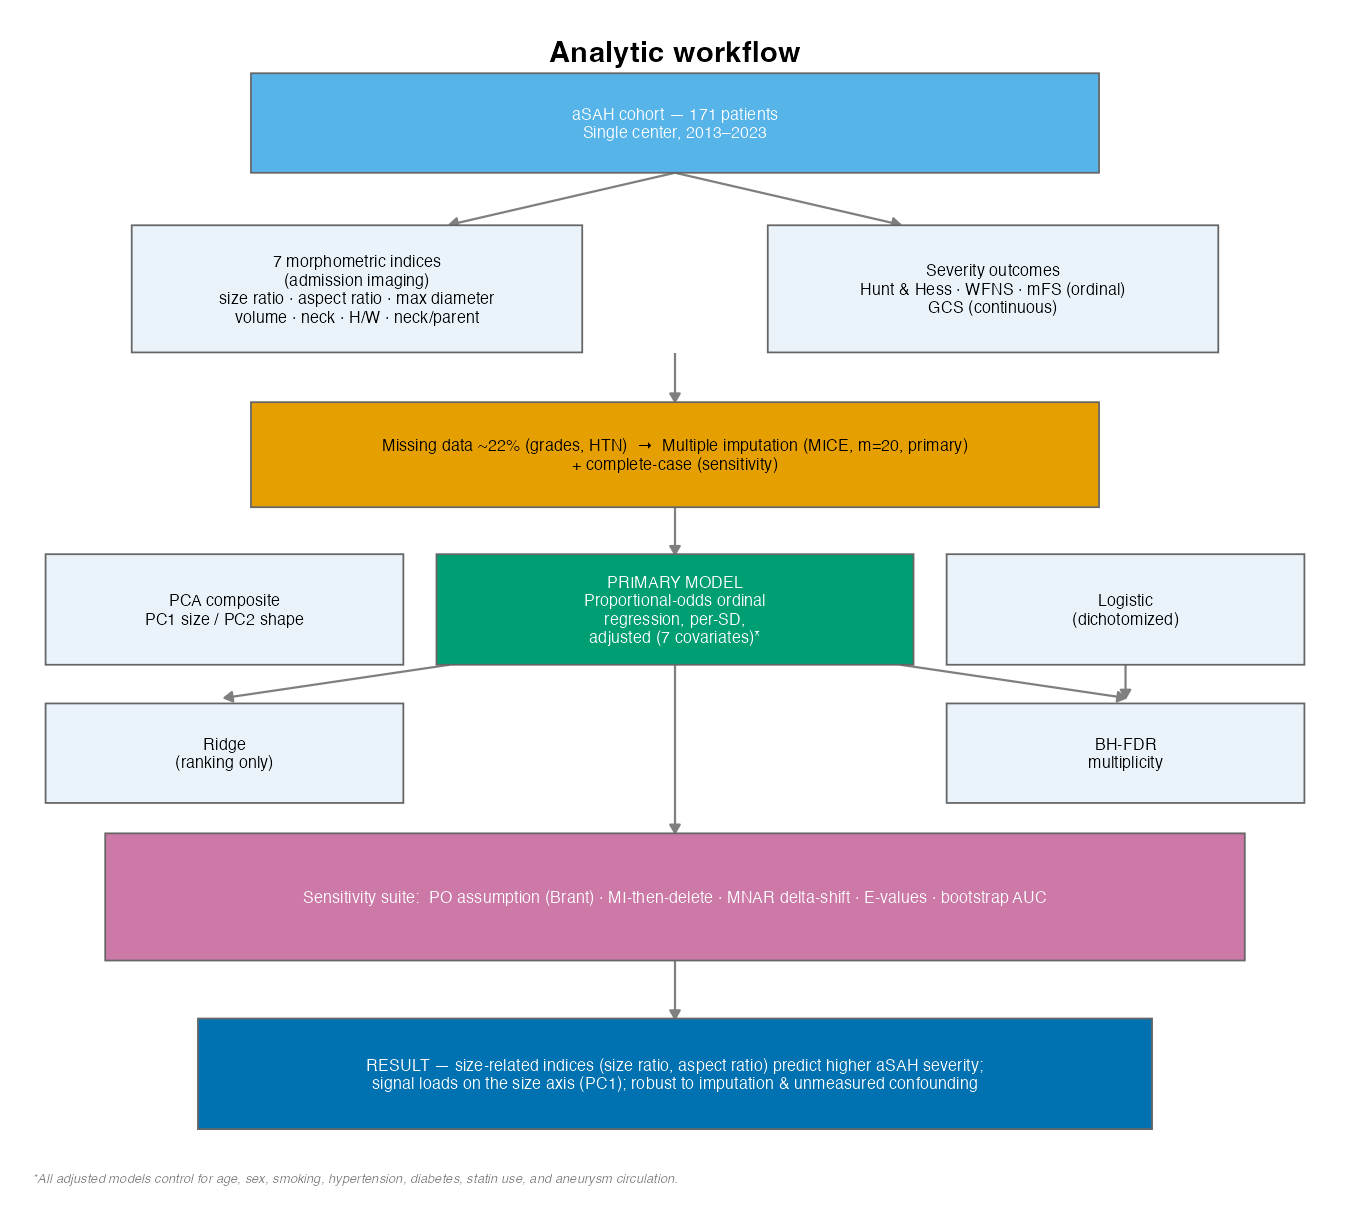
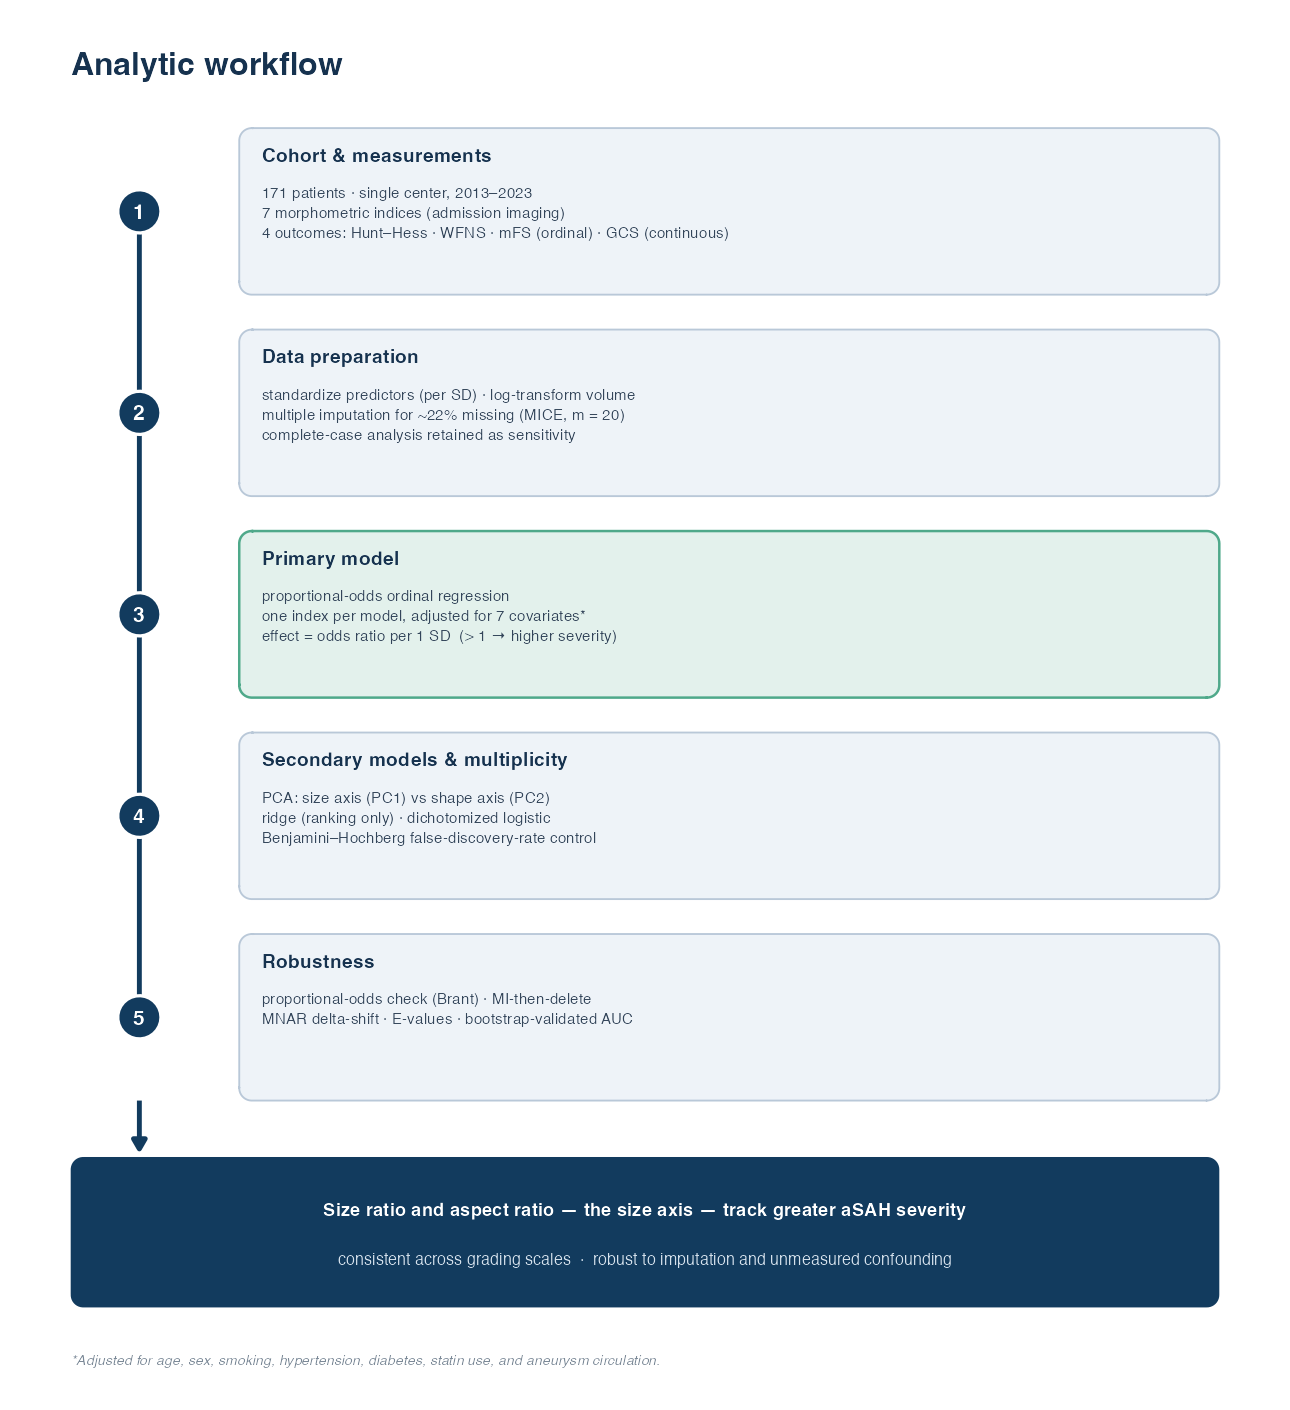
Redesign method figure and add key-result figure to README
Rebuild Figure 4 as a staged-pipeline schematic (numbered rail, rounded
cards, highlighted primary-model stage, result banner) on a white background.
Add a PNG export of Figure 1 and embed it under a Key result heading.

diff --git a/README.md b/README.md
@@ -16,6 +16,16 @@ covariate-adjusted), with PCA, ridge (ranking only), and dichotomized logistic a
 secondary models → Benjamini–Hochberg FDR → sensitivity suite (Brant test,
 MI-then-delete, MNAR delta-shift, E-values, bootstrap-validated AUC).*
 
+## Key result
+
+![Adjusted association of aneurysm morphology with aSAH severity](figures/Figure1_forest.png)
+
+*Adjusted per-SD odds ratios (proportional-odds ordinal regression, multiple
+imputation) for each morphometric index against the three severity scales. Size
+ratio and aspect ratio are the most consistent correlates; the size-related indices
+survive false-discovery-rate correction (orange). Complete-case estimates are in
+Table 2.*
+
 ## ⚠️ Data / PHI
 
 The raw workbook (`aSAH_Comprehensive_Data_1.1.26.xlsx`) contains **MRN, DOB, and